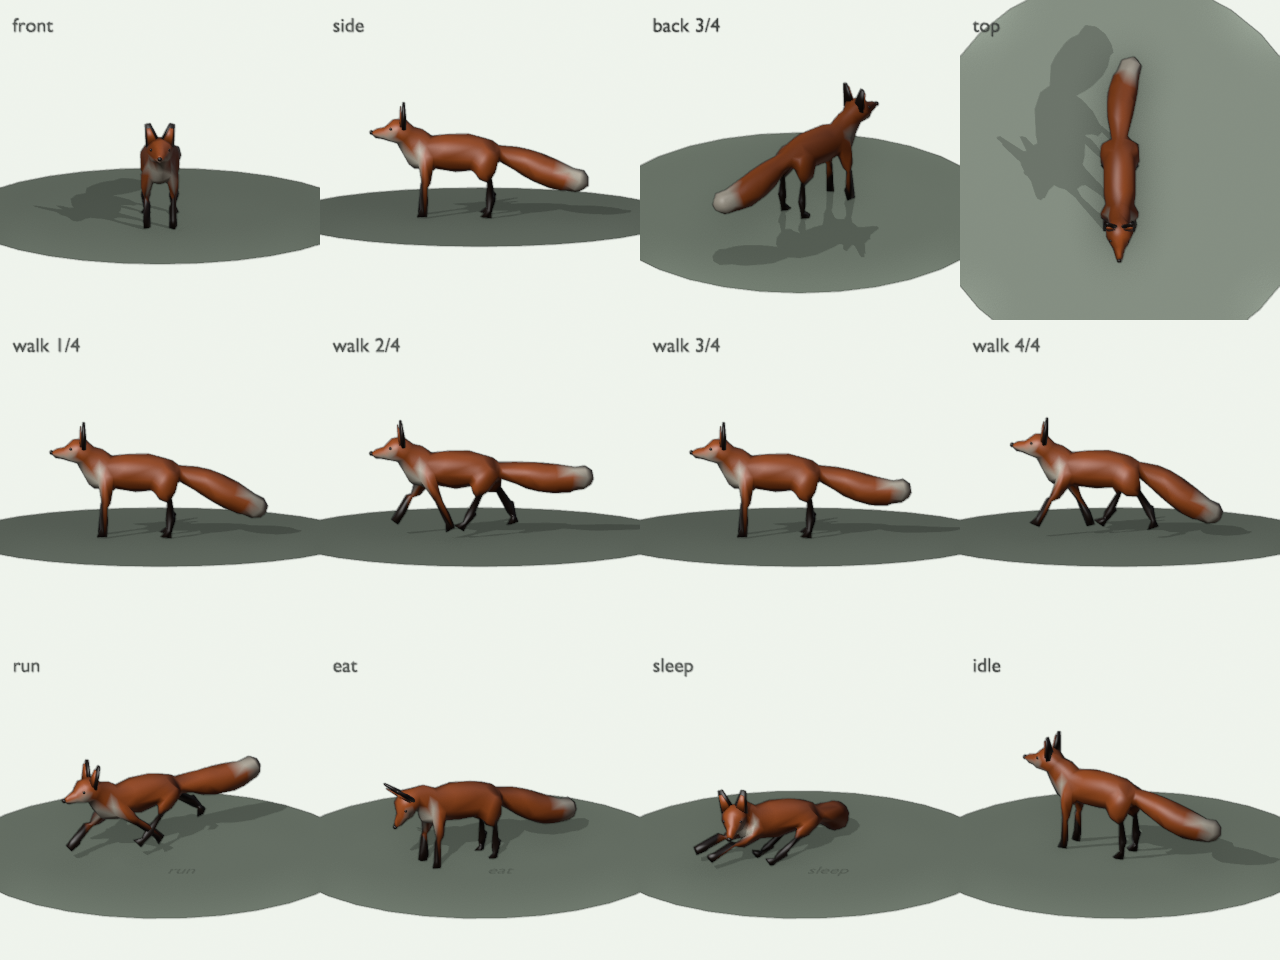
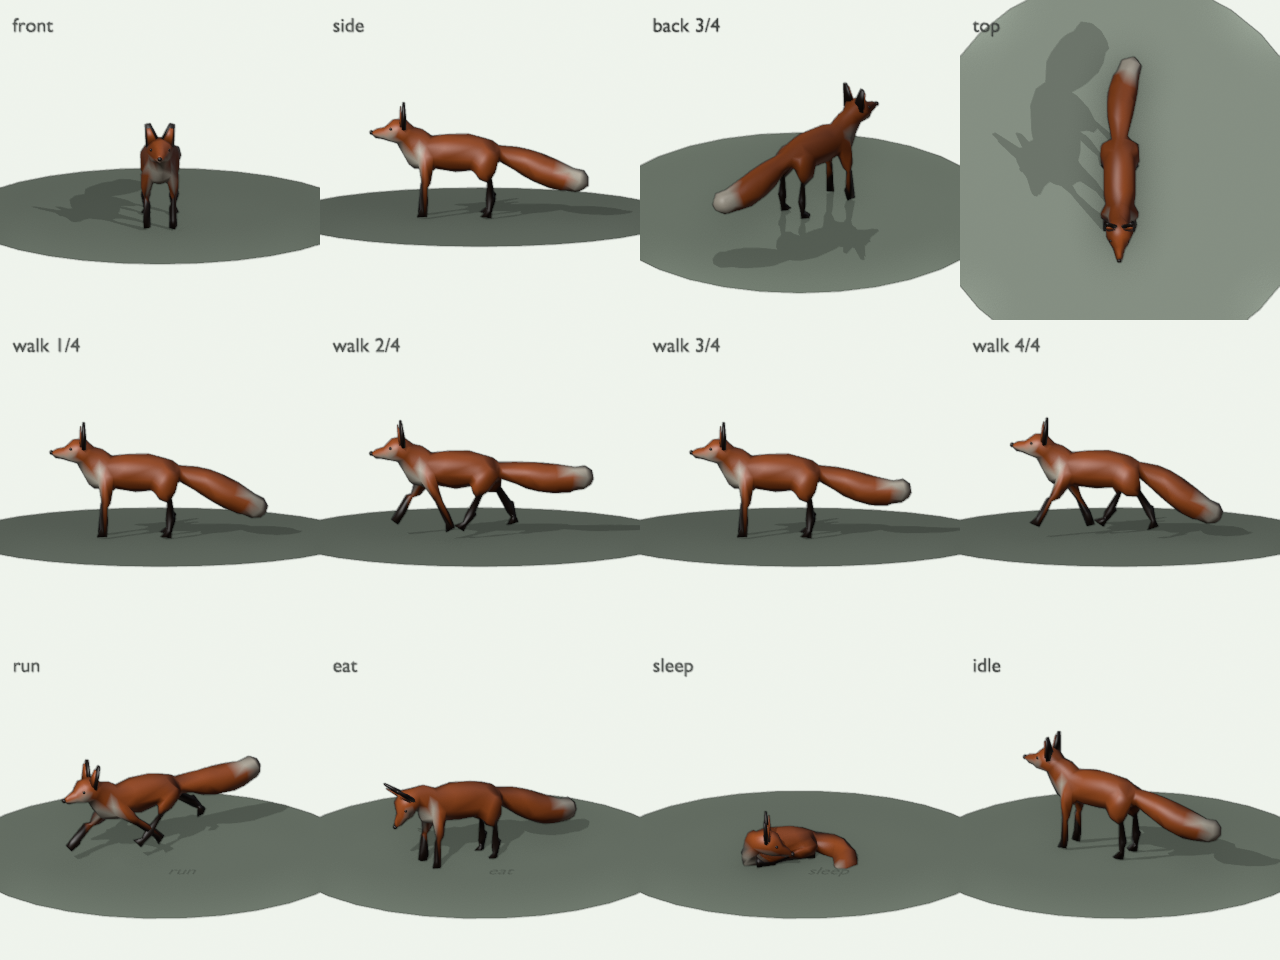
Curled-up sleep: a fox with its tail over its nose, a squirrel wrapped in its tail
- Builder: 'sleep_pose': 'curl' turns the neck and head back along the flank
  (nose tucked) and wraps the tail chain around the same side toward the nose;
  'sleep_tail': 'over' folds an upright tail forward over the back instead.
- Fox curls; squirrel curls under its tail. models/README documents it;
  wanted.json: curled-up sleep is done.

Changed region(s): [[0.5312, 0.8125, 0.6875, 0.9062], [0.8125, 0.0312, 0.8438, 0.0938], [0.8125, 0.1875, 0.8438, 0.2188]]

diff --git a/tools/blender/build_model.py b/tools/blender/build_model.py
@@ -365,6 +365,9 @@ def pose_for(clip, t, b, height, is_front, side):
             p = 0.06 * k * s
         elif clip == "eat":
             p = 0.55 * k + 0.08 * wave(t, ph, 4)
+        elif clip == "sleep" and LYING["curl"]:
+            # curled up: the head turns back along the flank, nose tucked down
+            p, y = 0.35 * k, (1.5 if role == "neck" else 1.1) if LYING["neck"] else 1.7
         elif clip == "sleep":
             p, y = 0.4 * k, 0.5 * k
     elif role == "jaw" and clip == "eat":
@@ -374,6 +377,10 @@ def pose_for(clip, t, b, height, is_front, side):
             y = 0.18 * sw * wave(t, -ph)
         elif clip in ("walk", "run", "eat"):
             p = 0.15 * sw * wave(t, -ph, 2 if clip == "eat" else 1)
+        elif clip == "sleep" and LYING["curl"] == "over":
+            p = 0.55 * sw   # an upright tail folds forward over the back, like a blanket
+        elif clip == "sleep" and LYING["curl"]:
+            y = -1.0 * sw   # the tail wraps around the same side, toward the nose
         elif clip == "sleep":
             y = 0.5 * sw
     elif role == "ear":
@@ -426,7 +433,7 @@ def bird_pose(clip, t, b, p, y, r, side):
 
 # Lying down (sleep), set per model in make_actions: how far the body drops
 # (to its belly, from the legs' real hip height) and how the legs fold.
-LYING = {"drop": None, "legs": (1.45, -1.45)}
+LYING = {"drop": None, "legs": (1.45, -1.45), "curl": "", "neck": False}
 
 
 def root_offset(clip, t, height, gait):
@@ -460,6 +467,9 @@ def make_actions(spec, arm_obj, height):
     else:
         LYING["drop"] = None
     LYING["legs"] = tuple(math.radians(a) for a in spec.get("sleep_legs", [83, -83]))
+    # "sleep_pose": "curl" curls up like a fox; "sleep_tail": "over" folds an upright tail (a squirrel's) over the back
+    LYING["curl"] = spec.get("sleep_tail", "around") if spec.get("sleep_pose") == "curl" else ""
+    LYING["neck"] = any(b["role"] == "neck" for b in spec["bones"])
     BIRD["pitch"] = math.radians(spec.get("fly_pitch", 50))   # how far the body tips forward to fly level
     BIRD["buzz"] = spec.get("wingbeat") == "buzz"              # insects: a blur of wings
     BIRD["legs"] = math.radians(spec.get("fly_legs", 75))      # legs swing back in flight (birds tuck them)

diff --git a/docs/catalogue.md b/docs/catalogue.md
@@ -139,7 +139,6 @@ Code changes that more content depends on. These are for the core team; the data
 | animals | **Body-plan templates** | A starting spec per body plan (four-legged, bird, fish), so agents and contributors copy the closest one instead of starting from scratch. | Wanted |
 | animals | **Swimming birds** | Ducks and grebes floating on the surface. No swimming birds yet. | Later |
 | trees | **Trees as recipes** | So contributors can add tree species without code (decision 0013). Undecided: measure first. | Later |
-| animals | **Curled-up sleep** | Animals now lie down on their bellies with the legs folded under them, dropped to their real hip height (or `sleep_drop` and `sleep_legs` in the spec). Some animals sleep curled up instead: a fox with its tail over its nose, a squirrel wrapped in its tail. That needs a curl pose for the body and tail chain. | Wanted |
 | animals | **Stride and eating reach per animal** | Walk, run and eat use fixed angles. Long legs get huge strides (the moose needed `swing` 0.75), and a tall animal can't lower its head to the ground. Let a spec set stride length and how low or high it eats (a grazing hare, a browsing moose). | Wanted |
 | animals | **Build report: body and separate parts** | The build prints one triangle total. Separate parts (antlers, fins, spots, eyes) share the budget, and the body never gets fewer than 200, so the budget can be silently exceeded or the body starved. Print the body and the separate parts separately, and warn at the minimum. | Wanted |
 | animals | **Bird wings: fold and flap** | The default fold tips the wing out instead of down (roll is applied before yaw), folded wings stay as wide as spread ones, and the flap is a symmetric ±52° around the rest pose. Apply the tip-down tilt after the sweep, narrow folded wings, and make the downstroke shorter than the upstroke. | Wanted |

diff --git a/models/README.md b/models/README.md
@@ -101,7 +101,7 @@ The settings are tuned for the whole game (see [decision 0012](../docs/decisions
 
 **Colours are stored on the vertices,** and the whole animal is one material, so the phone draws it in one call ([decision 0013](../docs/decisions/0013-one-material-per-animal.md)). Where two colours meet, they blend softly across one row of triangles. The colour names and values go into the model file, and that's how the game finds a colour to swap for a seasonal coat.
 
-**Sleeping:** an animal lies down on its belly with its legs folded under it: the body drops to 80% of its hip height (the height of its leg bones' heads), front legs fold back under the chest and hind legs forward under the belly. Override it in the spec with `"sleep_drop"` (share of the hip height, default 0.8) and `"sleep_legs"` (degrees for the front and hind legs, default `[83, -83]`). Birds keep their feet under them instead.
+**Sleeping:** an animal lies down on its belly with its legs folded under it: the body drops to 80% of its hip height (the height of its leg bones' heads), front legs fold back under the chest and hind legs forward under the belly. Override it in the spec with `"sleep_drop"` (share of the hip height, default 0.8) and `"sleep_legs"` (degrees for the front and hind legs, default `[83, -83]`). Birds keep their feet under them instead. Animals that sleep curled up set `"sleep_pose": "curl"`: the head turns back along the flank, nose tucked, and the tail wraps around the same side toward the nose (a fox). An upright tail folds forward over the back instead with `"sleep_tail": "over"` (a squirrel).
 
 ### Rules for a good spec
 These came from building the squirrel. Each one fixes something that looked wrong in a preview.
